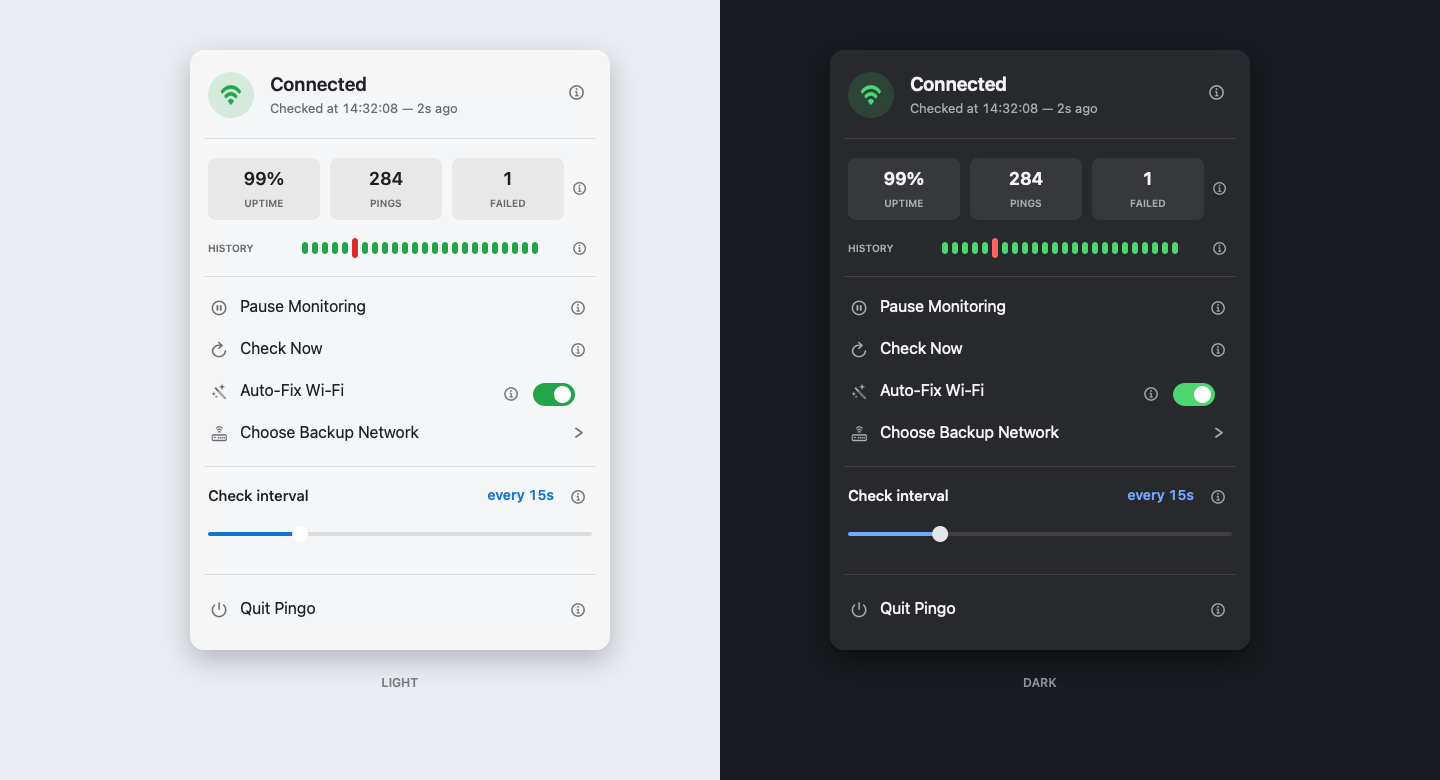
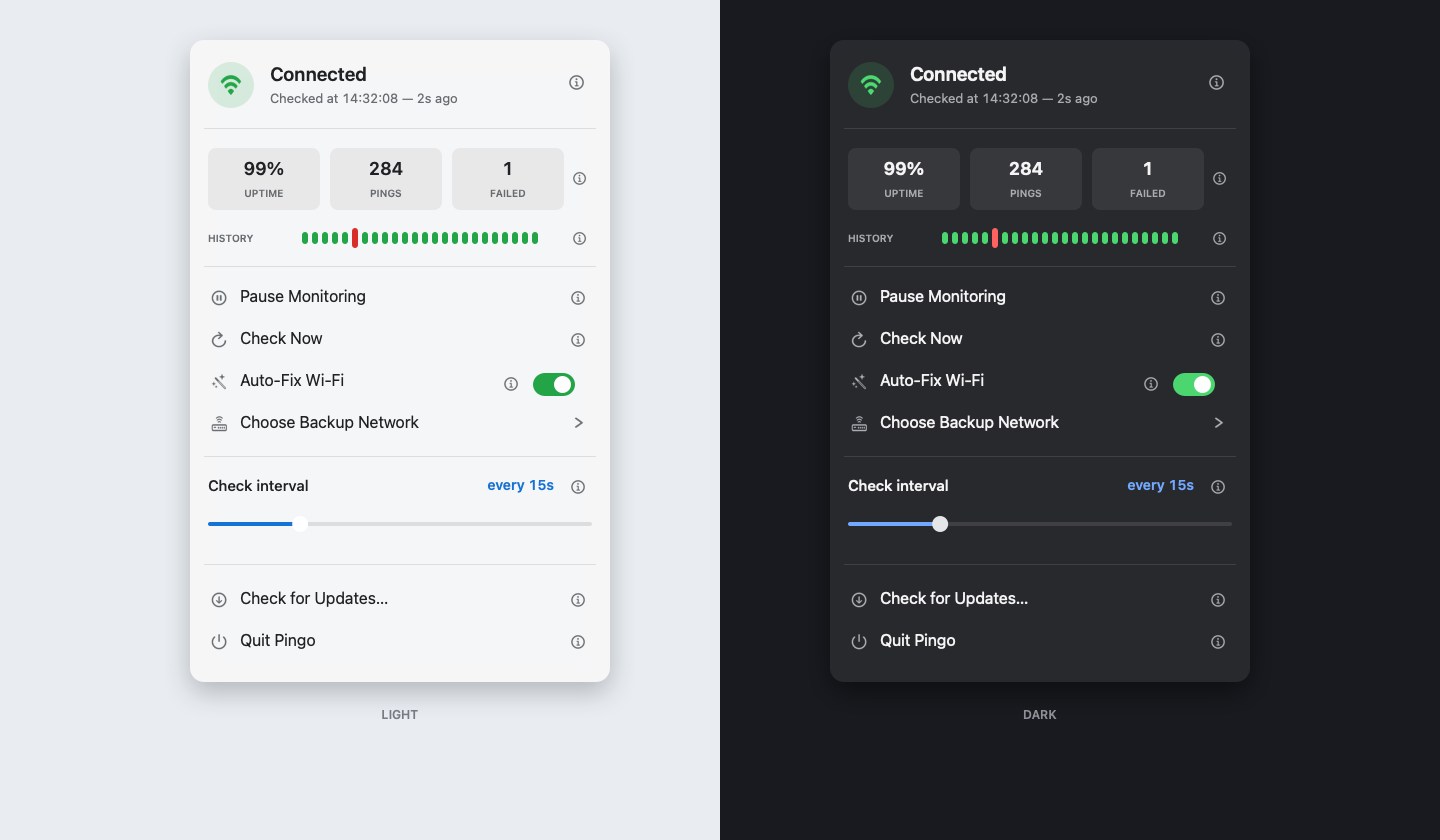
docs: refresh README app preview

diff --git a/assets/render-readme-preview.swift b/assets/render-readme-preview.swift
@@ -1,7 +1,7 @@
 import AppKit
 
 let canvasWidth = 1440
-let canvasHeight = 780
+let canvasHeight = 840
 let outputPath = CommandLine.arguments.dropFirst().first ?? "assets/pingo-readme-preview.png"
 
 func color(_ hex: UInt32, alpha: CGFloat = 1) -> NSColor {
@@ -61,7 +61,7 @@ func drawSeparator(x: CGFloat, top: CGFloat, width: CGFloat, color: NSColor) {
 
 func drawMenu(x: CGFloat, top: CGFloat, dark: Bool) {
     let width: CGFloat = 420
-    let height: CGFloat = 600
+    let height: CGFloat = 642
     let foreground = dark ? color(0xf4f4f5) : color(0x202124)
     let secondary = dark ? color(0xa9abb0) : color(0x686b70)
     let divider = dark ? color(0xffffff, alpha: 0.11) : color(0x000000, alpha: 0.10)
@@ -164,7 +164,8 @@ func drawMenu(x: CGFloat, top: CGFloat, dark: Bool) {
          color: dark ? color(0xe4e5e7) : .white, radius: 8)
 
     drawSeparator(x: x, top: top + 524, width: width, color: divider)
-    drawRow(top + 540, icon: "power", label: "Quit Pingo")
+    drawRow(top + 540, icon: "arrow.down.circle", label: "Check for Updates…")
+    drawRow(top + 582, icon: "power", label: "Quit Pingo")
 
     text(dark ? "DARK" : "LIGHT", x: x, top: top + height + 25, width: width, height: 18,
          font: .systemFont(ofSize: 12, weight: .semibold),
@@ -197,8 +198,8 @@ context.imageInterpolation = .high
 fill(rect(0, 0, CGFloat(canvasWidth) / 2, CGFloat(canvasHeight)), color: color(0xe9edf2))
 fill(rect(CGFloat(canvasWidth) / 2, 0, CGFloat(canvasWidth) / 2, CGFloat(canvasHeight)), color: color(0x181a1f))
 
-drawMenu(x: 190, top: 50, dark: false)
-drawMenu(x: 830, top: 50, dark: true)
+drawMenu(x: 190, top: 40, dark: false)
+drawMenu(x: 830, top: 40, dark: true)
 
 context.flushGraphics()
 NSGraphicsContext.restoreGraphicsState()

diff --git a/README.md b/README.md
@@ -17,10 +17,10 @@
 
 ---
 
-![Pingo's connection monitor menu in light and dark mode](assets/pingo-readme-preview.png)
+![Pingo's connection monitor, Wi-Fi recovery, and update controls in light and dark mode](assets/pingo-readme-preview.png)
 
 <div align="center">
-  <sub>Connection status, recent checks, session health, and recovery controls — all one click away.</sub>
+  <sub>Connection status, recent checks, Wi-Fi recovery, and manual update checks — all one click away.</sub>
 </div>
 
 Pingo lives quietly in the menu bar with no Dock icon and no main window. It checks two independent public DNS endpoints and changes state only when both stop responding, helping avoid false alarms caused by a single provider.
@@ -34,6 +34,7 @@ Pingo lives quietly in the menu bar with no Dock icon and no main window. It che
 | **Live history** | See session uptime, total checks, failures, and recent connection results. |
 | **Auto-Fix Wi-Fi** | Reconnect the active network without turning the Wi-Fi radio off. |
 | **Backup network** | Switch once to a selected Wi-Fi network after three consecutive failed checks. |
+| **Update checks** | Check GitHub Releases for a newer version only when you request it. |
 | **Flexible checks** | Choose any interval from 1 to 60 seconds or run an immediate check. |
 | **Built for macOS** | A lightweight Swift and AppKit app with native controls, SF Symbols, and no runtime dependencies. |
 
